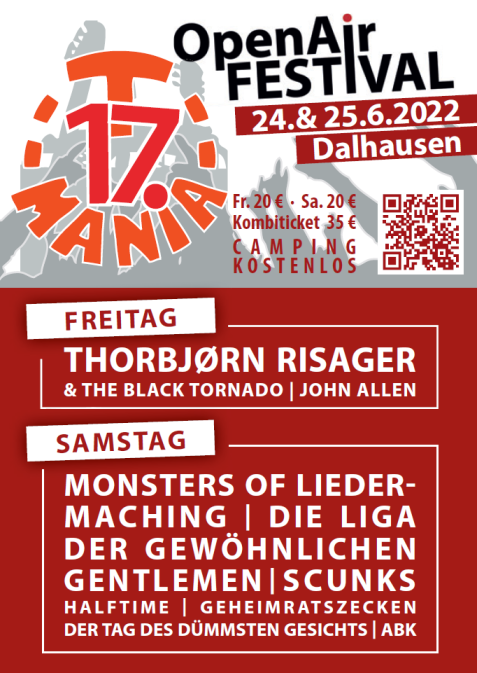
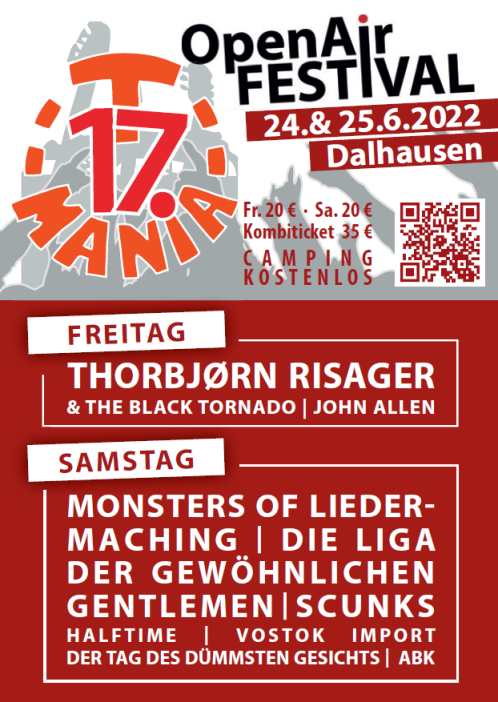
update flyer

diff --git a/_pages/lineup.md b/_pages/lineup.md
@@ -16,7 +16,7 @@ type: page
 | Samstag 25.06.2022 | Band |
 |-------|--------|
 | 14:30 - 15:00 | ABK |
-| 15:20 - 15:50 | Geheimratszecken |
+| 15:20 - 15:50 | Vostok Import |
 | 16:10 - 16:40 | Der Tag des dümmsten Gesichts |
 | 17:00 - 17:35 | Halftime |
 | 18:05 - 19:35 | Monsters of Liedermaching |
@@ -103,7 +103,7 @@ doc7e4f2b07bc9ri6lnckz)
 <!-- [Homepage](https://scunks.bandcamp.com/) -->
 
 
-## GEHEIMRATSZECKEN
+## VOSTOK IMPORT
 
 <!-- [Homepage](https://scunks.bandcamp.com/) -->
 
